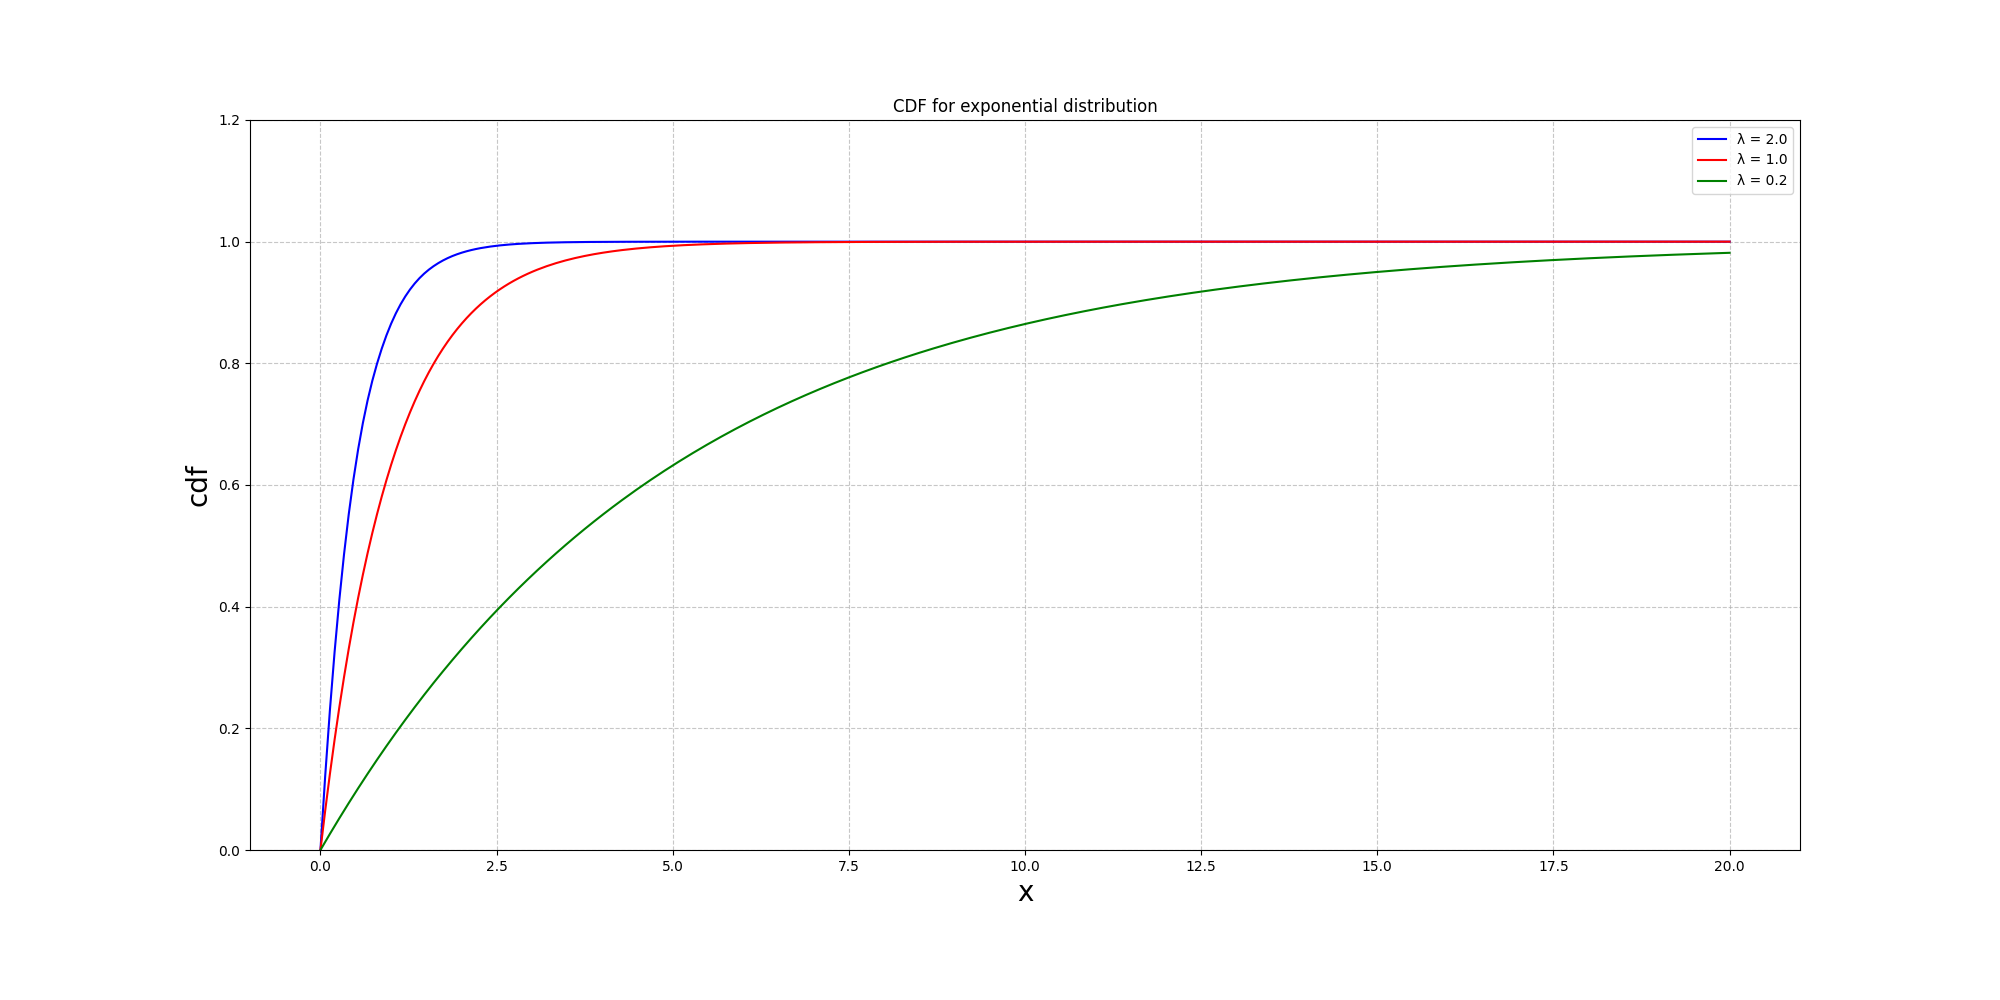
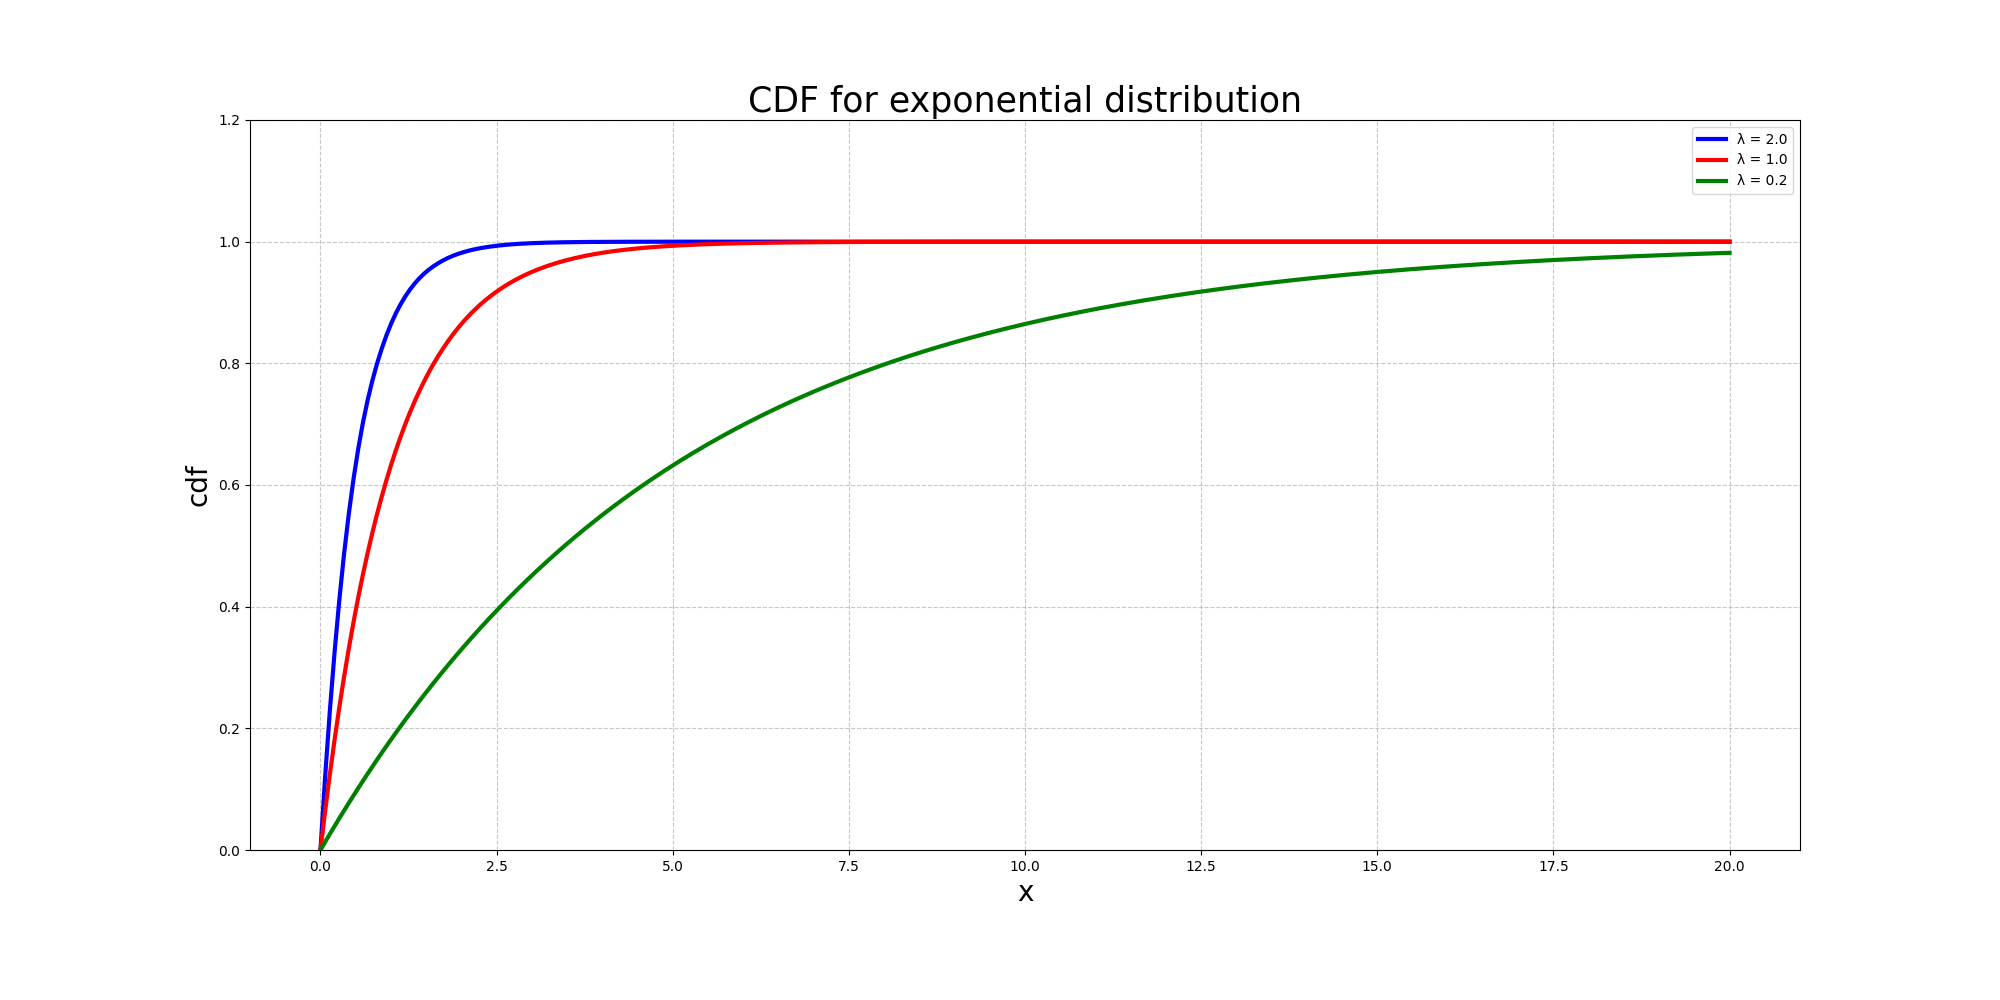
add and plot beta distribution

diff --git a/distributions/plot.py b/distributions/plot.py
@@ -60,32 +60,40 @@ def plot_poisson(poisson_distibutions: dict) -> None:
     plt.savefig("plots/poisson.png")
 
 
-def plot_exponential(
-    prob_densities: dict, title: str, ylable: str, y_lim: tuple, filename: str
+def plot_lines(
+    prob_densities: dict,
+    title: str,
+    xlable: str,
+    ylable: str,
+    x_lim: tuple,
+    y_lim: tuple,
+    filename: str,
+    smooth_lines=True,
 ) -> None:
     fig, ax = plt.subplots(figsize=(20, 10))
 
-    for mu, prob_density in prob_densities.items():
-        x = np.linspace(prob_density["x"].min(), prob_density["x"].max(), 300)
-        spl = make_interp_spline(
-            prob_density["x"], prob_density["y"], k=3
-        )  # type: BSpline
-        y = spl(x)
+    for prob_density in prob_densities.values():
+        if smooth_lines:
+            x = np.linspace(prob_density["x"].min(), prob_density["x"].max(), 300)
+            spl = make_interp_spline(
+                prob_density["x"], prob_density["y"], k=3
+            )  # type: BSpline
+            y = spl(x)
+        else:
+            x = prob_density["x"]
+            y = prob_density["y"]
         ax.plot(
-            x,
-            y,
-            label=f"λ = {1 / mu}",
-            color=prob_density["color"],
+            x, y, label=prob_density["label"], color=prob_density["color"], linewidth=3
         )
 
     ax.grid(axis="x", linestyle="--", alpha=0.7, zorder=0)
     ax.grid(axis="y", linestyle="--", alpha=0.7, zorder=0)
 
-    plt.xlim([-1, 21])
+    plt.xlim(x_lim)
     plt.ylim(y_lim)
-    plt.xlabel("x", fontsize=20)
+    plt.xlabel(xlable, fontsize=20)
     plt.ylabel(ylable, fontsize=20)
-    plt.title(title)
+    plt.title(title, fontsize=25)
     plt.legend(loc=1)
     fig.subplots_adjust(bottom=0.15)
     plt.savefig(f"plots/{filename}")

diff --git a/distributions/beta.py b/distributions/beta.py
@@ -1,0 +1,42 @@
+import numpy as np
+from scipy.special import gamma
+
+import plot
+
+
+def get_distribution(alpha: float, beta: float) -> tuple:
+    mus = np.linspace(0.0001, 0.99999, 1000)
+    coeff = gamma(alpha + beta) / (gamma(alpha) * gamma(beta))
+    distribution = np.array(
+        [coeff * mu ** (alpha - 1) * (1 - mu) ** (beta - 1) for mu in mus]
+    )
+    return mus, distribution
+
+
+if __name__ == "__main__":
+    prob_distributions = {}
+    dist_properties = {
+        "α = 0.5 = β": {"alpha": 0.5, "beta": 0.5, "color": "blue"},
+        "α = 1 = β": {"alpha": 1.0, "beta": 1.0, "color": "orange"},
+        "α = 2, β = 0.3": {"alpha": 2.0, "beta": 0.3, "color": "green"},
+        "α = 4, β = 10": {"alpha": 4.0, "beta": 10.0, "color": "pink"},
+        "α = 5, β = 1": {"alpha": 5.0, "beta": 1.0, "color": "brown"},
+    }
+    for label, properties in dist_properties.items():
+        mus, distribution = get_distribution(properties["alpha"], properties["beta"])
+        prob_distributions[label] = {
+            "x": mus,
+            "y": distribution,
+            "label": label,
+            "color": properties["color"],
+        }
+    plot.plot_lines(
+        prob_distributions,
+        "Beta distribution",
+        "µ",
+        "p(µ|α, β)",
+        (0, 1),
+        (0, 10),
+        "beta.png",
+        smooth_lines=False,
+    )

diff --git a/distributions/exponential.py b/distributions/exponential.py
@@ -17,19 +17,33 @@ if __name__ == "__main__":
     distribution_means = {0.5: "blue", 1: "red", 5: "green"}
     for mu, color in distribution_means.items():
         X, prob_density, cum_prob = get_density_and_cumulative(mu)
-        prob_densities[mu] = {"x": X, "y": prob_density, "color": color}
-        cum_probs[mu] = {"x": X, "y": cum_prob, "color": color}
-    plot.plot_exponential(
+        prob_densities[mu] = {
+            "x": X,
+            "y": prob_density,
+            "label": f"λ = {1 / mu}",
+            "color": color,
+        }
+        cum_probs[mu] = {
+            "x": X,
+            "y": cum_prob,
+            "label": f"λ = {1 / mu}",
+            "color": color,
+        }
+    plot.plot_lines(
         prob_densities,
         "PDF for exponential distribution",
+        "x",
         "pdf",
+        (-1, 21),
         (0, 2.2),
         "exponential_pdf.png",
     )
-    plot.plot_exponential(
+    plot.plot_lines(
         cum_probs,
         "CDF for exponential distribution",
+        "x",
         "cdf",
+        (-1, 21),
         (0, 1.2),
         "exponential_cdf.png",
     )
